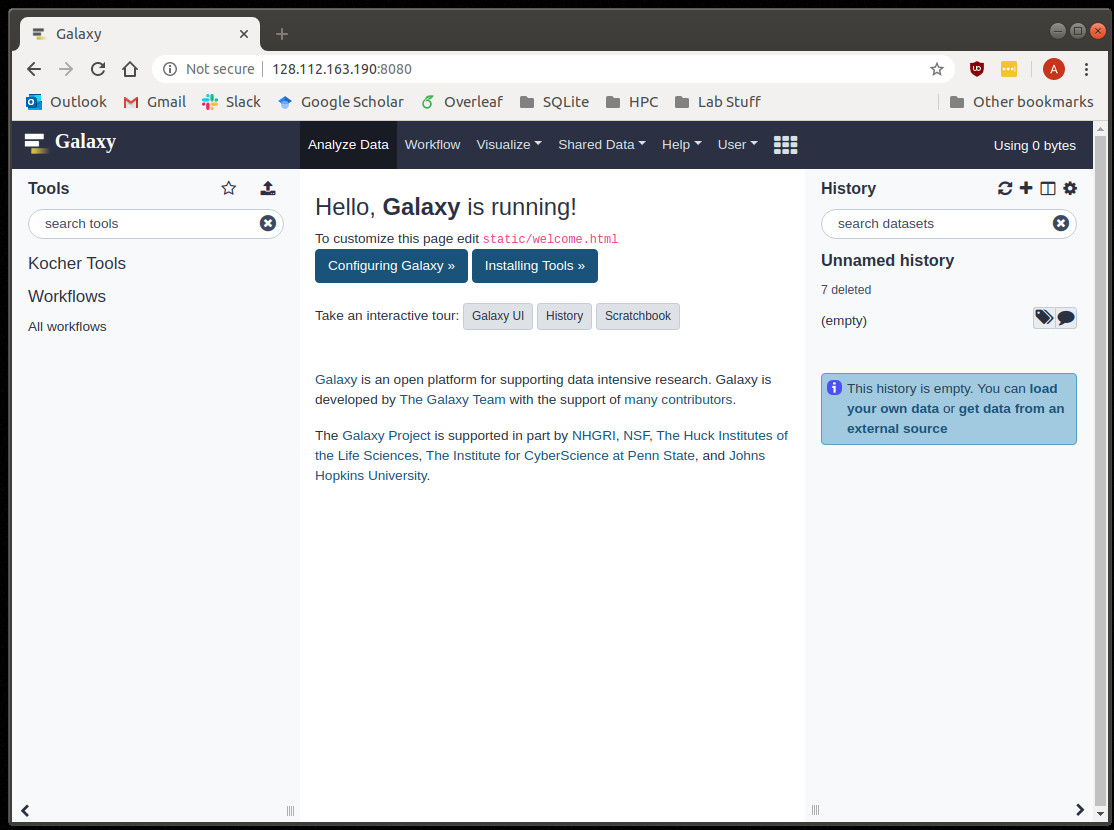
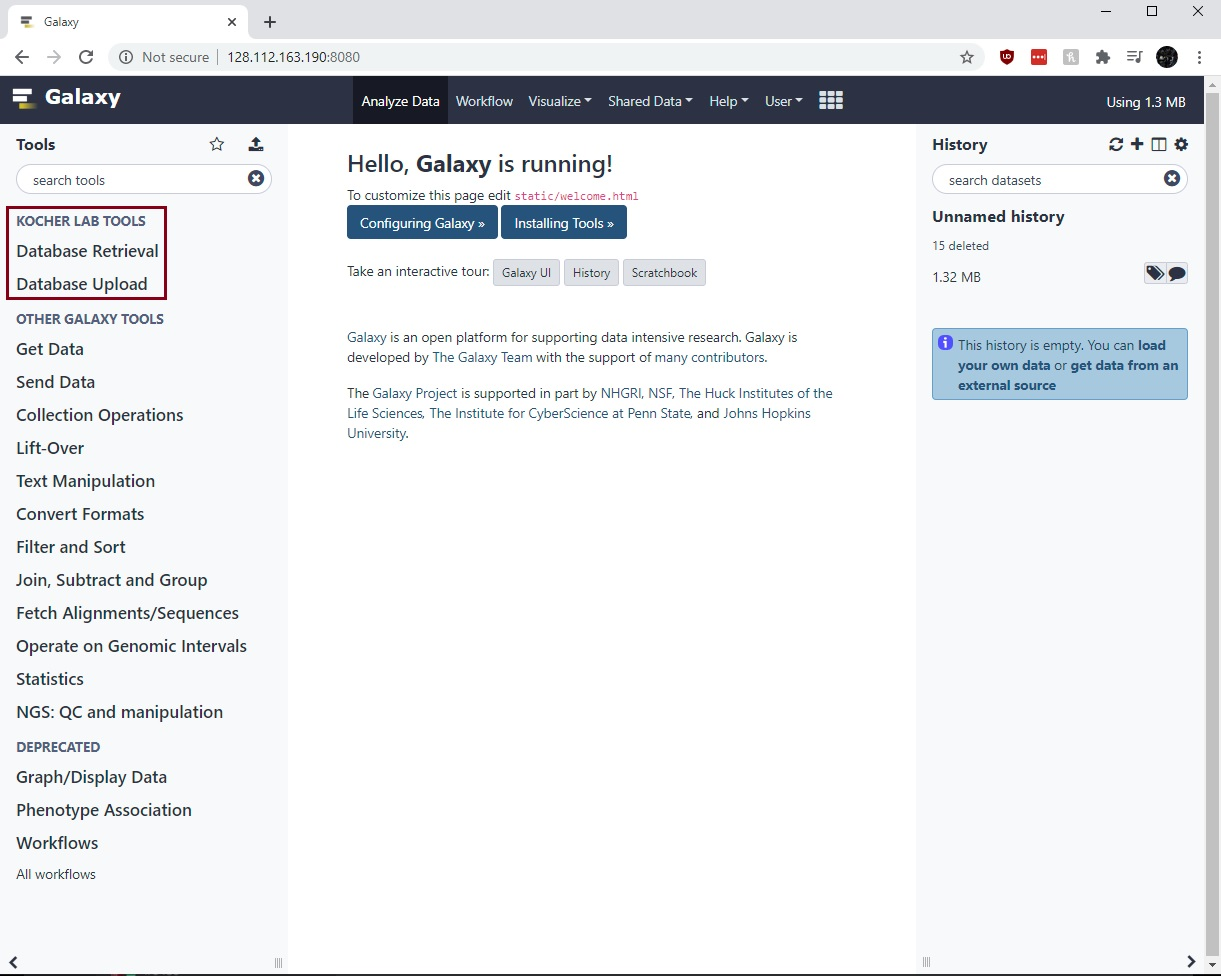
Update

diff --git a/docs/Guides/Galaxy.rst b/docs/Guides/Galaxy.rst
@@ -15,7 +15,7 @@ Unlike `usegalaxy.org <https://usegalaxy.org/>`_, the Kocher Galaxy Server requi
 
 Where are the tools?
 --------------------
-Once you've created your account and logged in, the Homepage :numref:`(Fig. %s) <Homepage>` of the Kocher Galaxy Server should be displayed. To access the tools currently on the server, select **Kocher Tools** on the left sidebar. Once selected, the currently available tools will be listed below.
+Once you've created your account and logged in, the Homepage :numref:`(Fig. %s) <Homepage>` of the Kocher Galaxy Server should be displayed. You may find the current lab tools under the heading **KOCHER LAB TOOLS** on the left sidebar. To access the tools currently on the server, select **Database Retrieval** or **Database Upload**. Once selected, the currently available tools will be listed below.
 
 .. figure:: Galaxy/Homepage.jpg
     :width: 100%
@@ -27,13 +27,43 @@ Once you've created your account and logged in, the Homepage :numref:`(Fig. %s) 
 
 Query the SQL server
 --------------------
-To query the Kocher lab SQL database, select **Retrieve samples** *from SQLite database* on the left sidebar. Once selected, you should see the following page :numref:`(Fig. %s) <Retrieve>`. To query the server you are first required to indicate what you want returned (i.e. **Return what?**). In the current version, this may be one or more tables/columns in the database. Once the returned data is selected, you may filter the returned data with the include/exclude optional arguments found below. In the current version, specalized include/exclude arguments are provided for: **Sample ID**, **Species**, **Genus**, and **Samples from nests**. Samples may be filtered by other information using **Include/Exclude Column**, which require the column be selected from a dropdown menu alongside a specified value. Please note: if no filters are selected, all samples will be returned.   
+To query the Kocher lab SQL database, you may select from the basic retrieval tools (**Retrieve collected samples**, **Retrieve stored samples**, **Retrieve barcoded samples**, and **Retrieve locations**) or the general retrieval tool (**Retrieve samples**). The basic retrieval tools by default will only return relevant columns (i.e. storage information, barcoding/sequencing information, etc) whereas the general retrieval tool will by default return all columns.
 
-.. figure:: Galaxy/Retrieve.jpg
+
+Basic Retrieval
+---------------
+Once a basic retrieval tool has been selected, you should see the following page :numref:`(Fig. %s) <Basic Retrieve>`.
+
+.. figure:: Galaxy/Basic_Retrieve.jpg
     :width: 100%
     :align: center
     :figclass: align-center
-    :name: Retrieve
+    :name: Basic Retrieve
      
-    Retrieve samples Page
+    Retrieve Collected Samples Page
+
+By default, the tool will return all relevant data. You may filter the returned data using the include and/or exclude arguments. This may be done by clicking **Insert Column**, which will then display a dropdown menu of columns. For instance, to only include results for samples *BMJ1-A1* and *BMJ1-A2* you would select the **Unique ID** column and enter the IDs within the text box :numref:`(Fig. %s) <Basic Enter>`. Please note, that additional filters may be specified by clicking **Insert Column** more than once.
+
+.. figure:: Galaxy/Basic_Enter.jpg
+    :width: 100%
+    :align: center
+    :figclass: align-center
+    :name: Basic Retrieve
+     
+    Sample Filtering
+
+General Retrieval
+-----------------
+Once the general tool is selected, you should see the following page :numref:`(Fig. %s) <General Retrieve>`. To query the server you are first required to indicate what you want returned (i.e. **Return what?**). In the current version, this may be one or more *tables* or *columns* within the database. Once the returned data is selected, you may filter the returned data with the include and/or exclude arguments found below. In the current version, specalized include/exclude arguments are provided for: **Sample ID**, **Species**, **Genus**, and **Samples from nests**. Samples may be filtered by other information using **Include/Exclude Column**, which require the column be selected from a dropdown menu alongside a specified value. Please note: if no filters are selected, all samples will be returned.
+
+.. figure:: Galaxy/General_Retrieve.jpg
+    :width: 100%
+    :align: center
+    :figclass: align-center
+    :name: Basic Retrieve
+     
+    General Retrieve Samples Page
+
+
+
 
